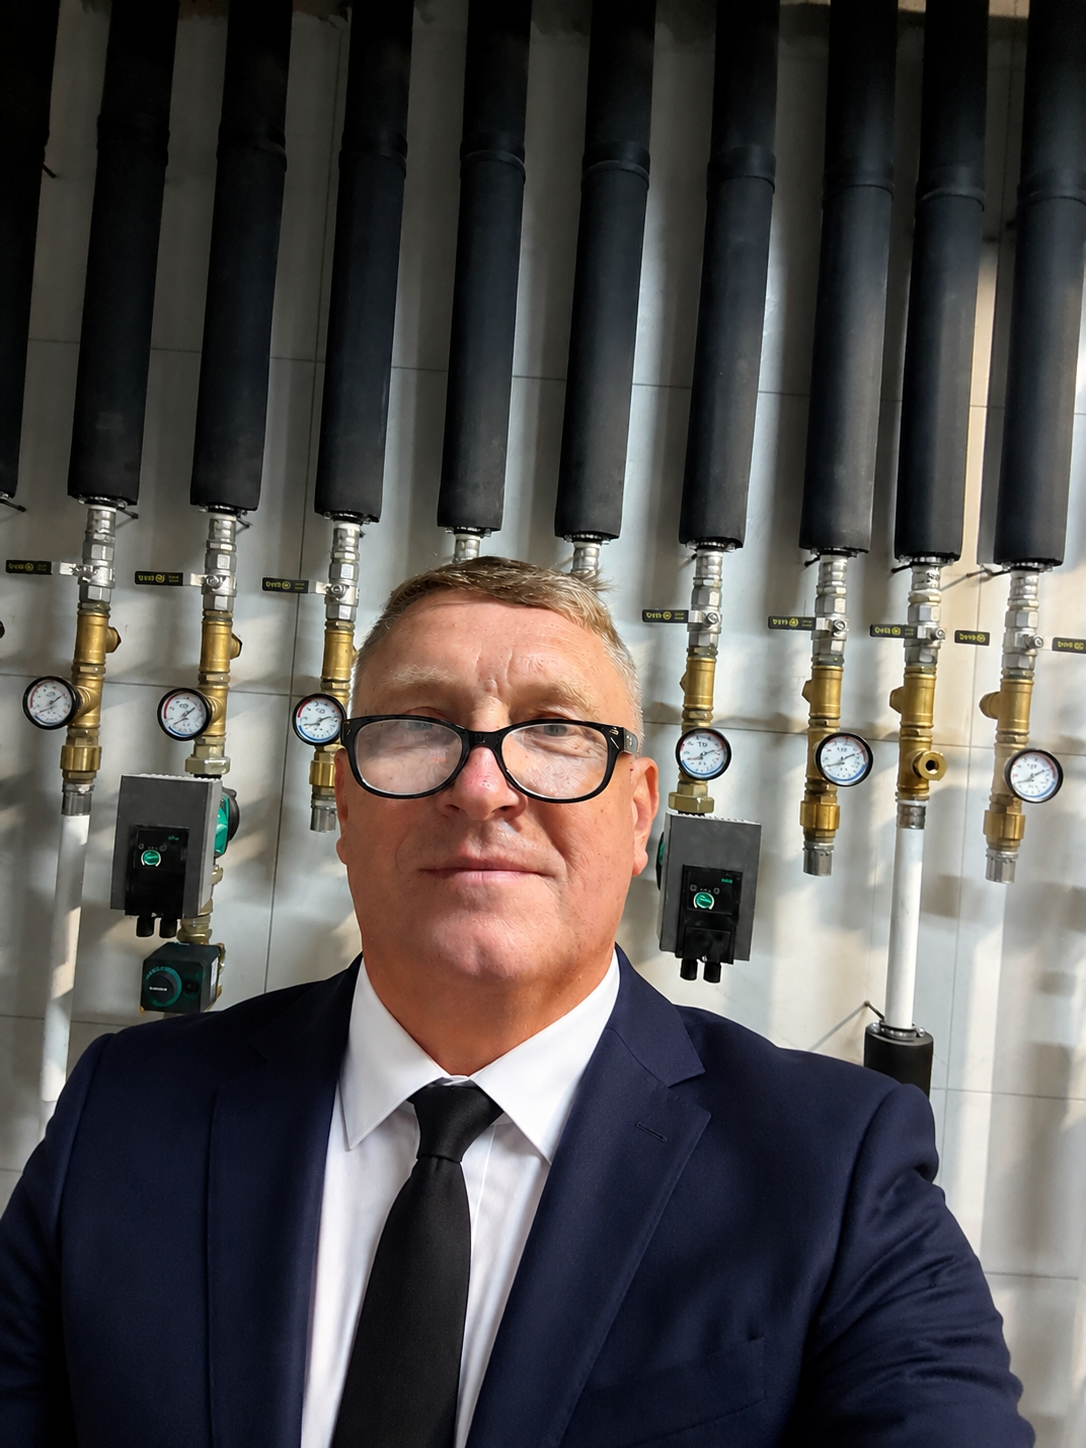
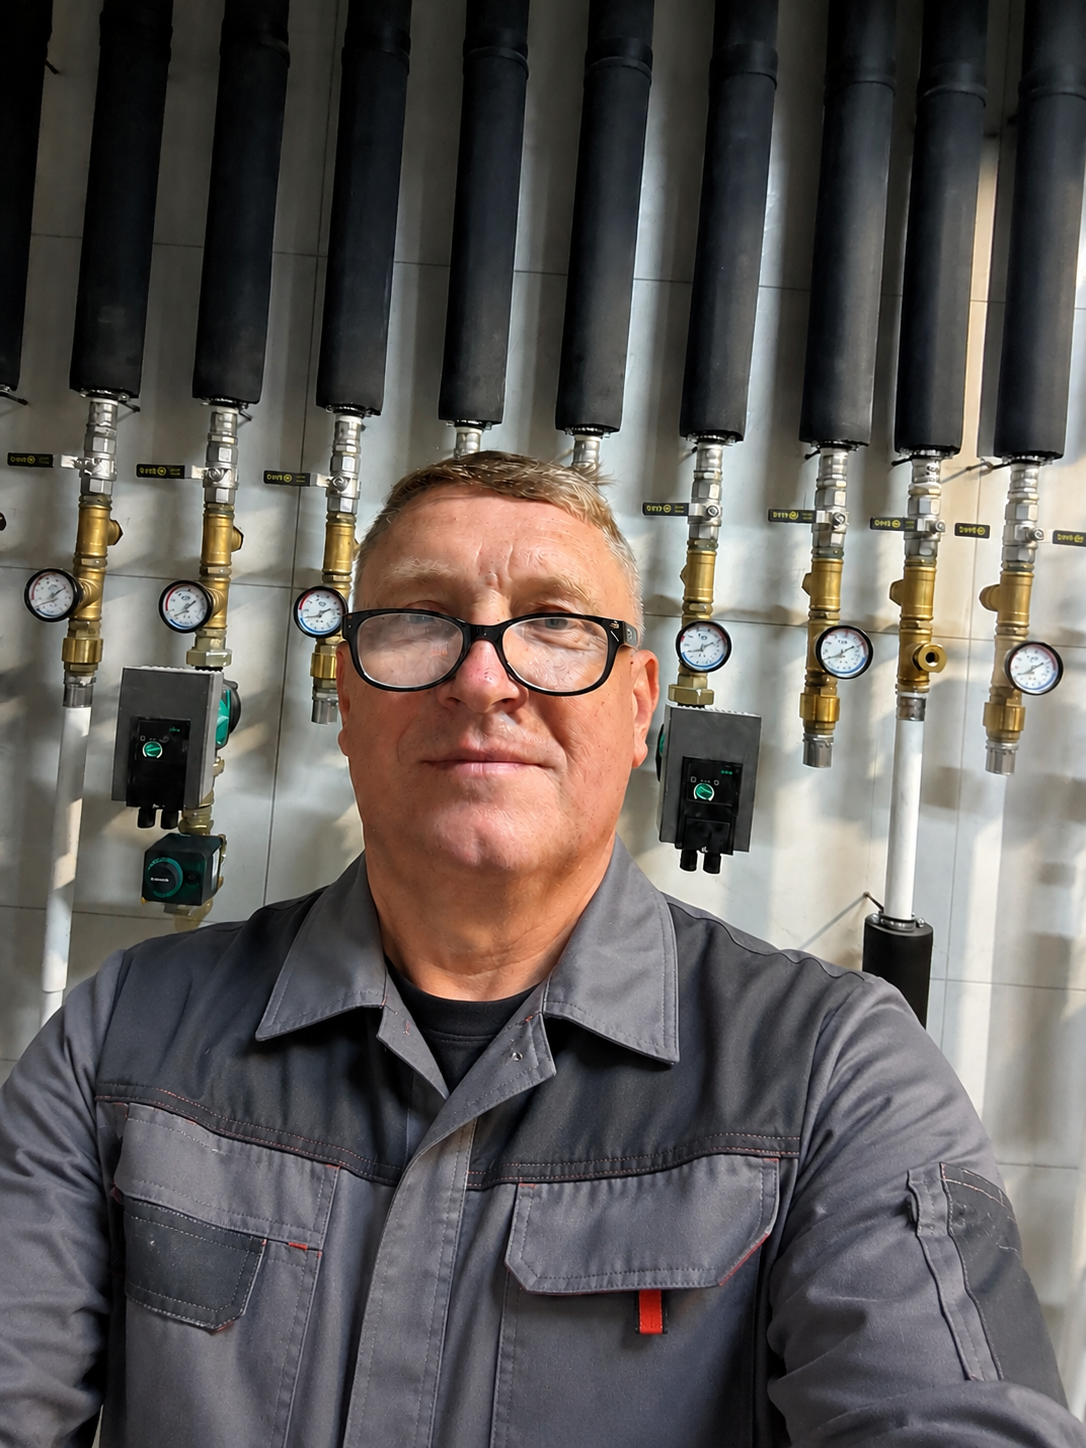
Add founder name/photo, wire quiz and contact forms to admin leads API
Founder photo replaced and "Boris Bykov" name added to the About card.
Quiz and Contacts forms now POST real submissions to the admin backend
via VITE_ADMIN_API_URL, tagged with distinct sources (quiz vs contact).

Claude-Session: https://claude.ai/code/session_01NFPtMpv3KmdweXdzanqgaX

diff --git a/src/i18n/translations.ts b/src/i18n/translations.ts
@@ -115,6 +115,7 @@ export const translations: Translations = {
       intro:
         "Empecé como ayudante de electricista. Hace 12 años entendí algo simple: la gente no necesita un «electricista de una hora», sino alguien que responda por el resultado durante años. Me trasladé a España en 2018, obtuve la licencia local y aprendí la normativa REBT. Desde entonces trabajo solo, sin cuadrillas.",
       founder: {
+        name: "Boris Bykov",
         initials: "BB",
         badgeName: "BB · SMART VOLT",
         role: "Electricista autónomo",
@@ -294,6 +295,7 @@ export const translations: Translations = {
       intro:
         "I started as an electrician's assistant. 12 years ago I realized something simple: people don't need an \"electrician for an hour\" — they need someone who stands behind the result for years. I moved to Spain in 2018, got my local license, and learned the REBT code. Since then — solo, no crews.",
       founder: {
+        name: "Boris Bykov",
         initials: "BB",
         badgeName: "BB · SMART VOLT",
         role: "Independent electrician",
@@ -473,6 +475,7 @@ export const translations: Translations = {
       intro:
         "Я начинал как помощник монтёра. 12 лет назад понял простую вещь: людям нужен не «электрик на час», а человек, который отвечает за результат годами. Переехал в Испанию в 2018, получил местную лицензию, выучил нормы REBT. С тех пор — один, без бригад.",
       founder: {
+        name: "Борис Быков",
         initials: "ББ",
         badgeName: "ББ · СМАРТ ВОЛЬТ",
         role: "Частный электрик",

diff --git a/src/sections/Quiz/Quiz.tsx b/src/sections/Quiz/Quiz.tsx
@@ -1,5 +1,6 @@
 import { useLayoutEffect, useRef, useState, type FormEvent } from "react";
 import { useTranslation } from "../../i18n/useTranslation";
+import { submitLead } from "../../lib/leads";
 import { PASTELS, QUIZ_OPTION_IMAGES } from "./quizConfig";
 import { QuizOptionCard } from "./QuizOptionCard";
 import { QuizStepper } from "./QuizStepper";
@@ -9,19 +10,6 @@ type Status = "idle" | "sending" | "done" | "error";
 
 /** Selected option index per question step; `null` until answered. */
 type QuizAnswers = readonly (number | null)[];
-
-/** Snapshot handed to onSubmit — a stub, since there is no lead endpoint yet. */
-interface QuizSubmission {
-  readonly answers: readonly { readonly question: string; readonly option: string }[];
-  readonly name: string;
-  readonly phone: string;
-}
-
-function handleQuizSubmit(submission: QuizSubmission): void {
-  // No backend wired up yet — this project has no API route, so submission
-  // is just logged until a lead endpoint exists.
-  console.info("[quiz] submission", submission);
-}
 
 export function Quiz() {
   const { t } = useTranslation();
@@ -72,13 +60,16 @@ export function Quiz() {
 
     setStatus("sending");
 
-    handleQuizSubmit({
-      answers: steps.map((s, i) => ({ question: s.question, option: s.options[answers[i]!]!.label })),
-      name,
-      phone,
-    });
+    const message = steps
+      .map((s, i) => `${s.question}: ${s.options[answers[i]!]!.label}`)
+      .join("\n");
 
-    await new Promise((resolve) => setTimeout(resolve, 500));
+    try {
+      await submitLead({ name, phone, message, source: "quiz" });
+    } catch (err) {
+      console.error("[quiz] submission failed", err);
+    }
+
     setStatus("done");
   }
 

diff --git a/src/sections/Contacts/Contacts.tsx b/src/sections/Contacts/Contacts.tsx
@@ -2,24 +2,12 @@ import { useState, type FormEvent } from "react";
 import { useTranslation } from "../../i18n/useTranslation";
 import { useReducedMotion } from "../../hooks/useReducedMotion";
 import { CONTACT_INFO, WHATSAPP_LINK } from "../../config/contacts";
+import { submitLead } from "../../lib/leads";
 import { ContactIcon, WhatsAppIcon } from "./icons";
 import { formatSpanishPhone, isNameValid, isSpanishPhoneValid } from "./phoneMask";
 import styles from "./Contacts.module.css";
 
 type Status = "idle" | "sending" | "done";
-
-/** Snapshot handed to onSubmit — a stub, since there is no lead endpoint yet. */
-interface ContactSubmission {
-  readonly name: string;
-  readonly phone: string;
-  readonly task: string;
-}
-
-function handleContactSubmit(submission: ContactSubmission): void {
-  // No backend wired up yet — this project has no API route, so submission
-  // is just logged until a lead endpoint exists.
-  console.info("[contacts] submission", submission);
-}
 
 function scrollToQuiz(): void {
   document.getElementById("contacto")?.scrollIntoView({ behavior: "smooth", block: "start" });
@@ -50,8 +38,11 @@ export function Contacts() {
     if (!nameValid || !phoneValid || status === "sending") return;
 
     setStatus("sending");
-    handleContactSubmit({ name, phone, task });
-    await new Promise((resolve) => setTimeout(resolve, 800));
+    try {
+      await submitLead({ name, phone, message: task, source: "contact" });
+    } catch (err) {
+      console.error("[contacts] submission failed", err);
+    }
     setStatus("done");
   }
 

diff --git a/src/lib/leads.ts b/src/lib/leads.ts
@@ -1,0 +1,29 @@
+const ADMIN_API_URL = import.meta.env.VITE_ADMIN_API_URL as string | undefined;
+
+export type LeadSource = "quiz" | "contact";
+
+export interface LeadPayload {
+  readonly name: string;
+  readonly phone: string;
+  readonly email?: string;
+  readonly message?: string;
+  readonly source: LeadSource;
+}
+
+/** Posts a lead to the admin backend. Silently no-ops if the admin URL isn't configured. */
+export async function submitLead(payload: LeadPayload): Promise<void> {
+  if (!ADMIN_API_URL) {
+    console.warn("[leads] VITE_ADMIN_API_URL is not set — lead was not sent", payload);
+    return;
+  }
+
+  const res = await fetch(`${ADMIN_API_URL}/api/leads`, {
+    method: "POST",
+    headers: { "Content-Type": "application/json" },
+    body: JSON.stringify(payload),
+  });
+
+  if (!res.ok) {
+    throw new Error(`Lead submission failed: ${res.status}`);
+  }
+}

diff --git a/src/sections/About/About.tsx b/src/sections/About/About.tsx
@@ -15,6 +15,7 @@ export function About() {
             </div>
 
             <div className={styles.founderCard}>
+              <span className={styles.founderName}>{founder.name}</span>
               <span className={styles.founderBadge}>{founder.badgeName}</span>
               <span className={styles.founderRole}>{founder.role}</span>
               <span className={styles.founderLocation}>{founder.location}</span>

diff --git a/src/sections/About/About.module.css b/src/sections/About/About.module.css
@@ -51,11 +51,18 @@
   background: var(--color-surface);
 }
 
+.founderName {
+  font-size: 1rem;
+  font-weight: 800;
+  letter-spacing: -0.01em;
+  color: var(--color-ink);
+}
+
 .founderBadge {
   font-size: 0.72rem;
   font-weight: 700;
   letter-spacing: 0.04em;
-  color: var(--color-ink);
+  color: var(--color-ink-muted);
 }
 
 .founderRole {

diff --git a/src/i18n/types.ts b/src/i18n/types.ts
@@ -58,6 +58,7 @@ export interface Translation {
     readonly headingAccent: string;
     readonly intro: string;
     readonly founder: {
+      readonly name: string;
       readonly initials: string;
       readonly badgeName: string;
       readonly role: string;

diff --git a/src/vite-env.d.ts b/src/vite-env.d.ts
@@ -1,0 +1,9 @@
+/// <reference types="vite/client" />
+
+interface ImportMetaEnv {
+  readonly VITE_ADMIN_API_URL?: string;
+}
+
+interface ImportMeta {
+  readonly env: ImportMetaEnv;
+}
